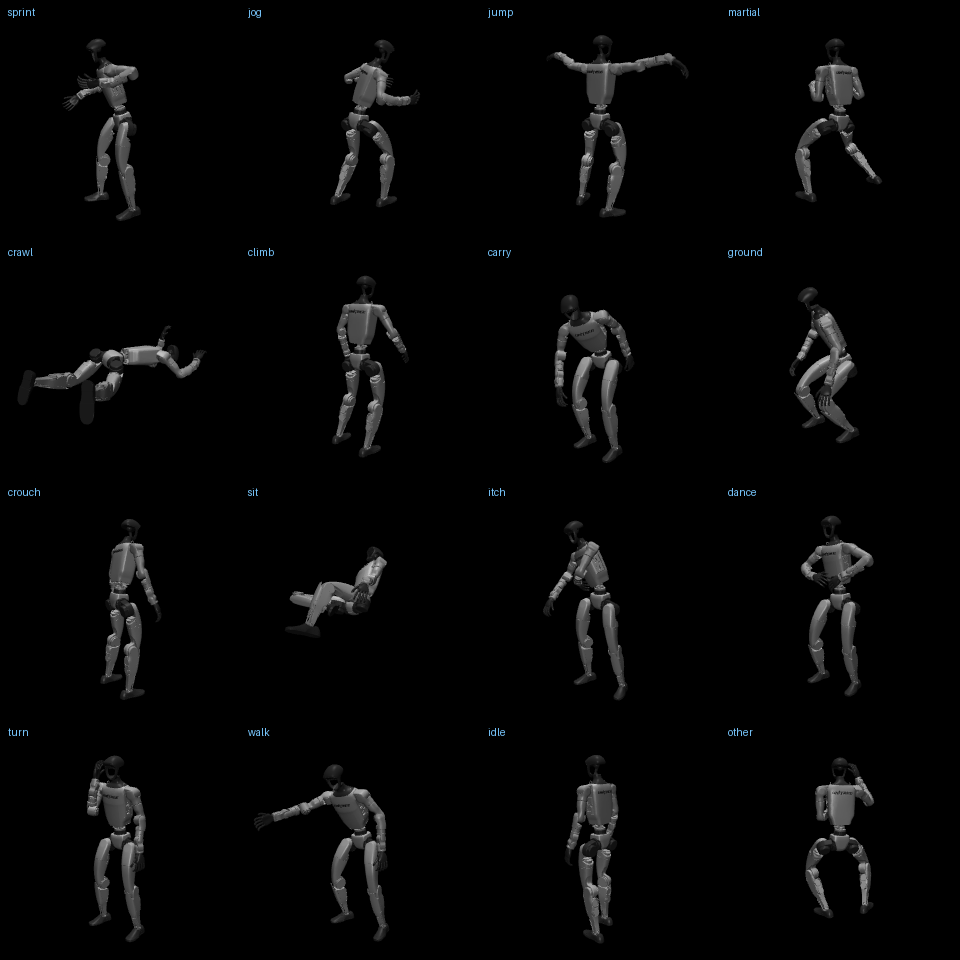
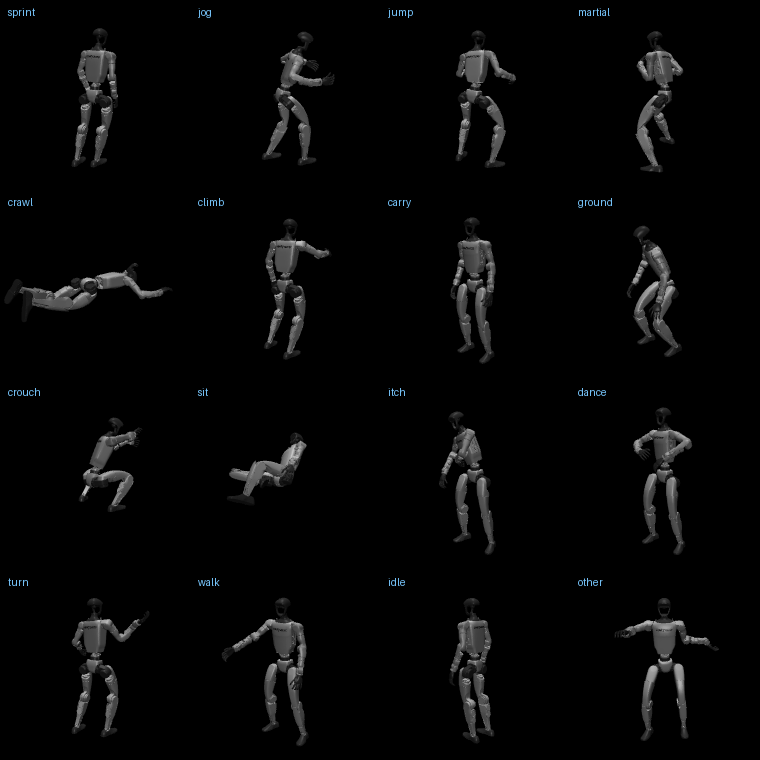
docs: longer header GIF (12 s per cell), with a stride and palette control
Three seconds was too short to read a motion. The grid now covers 12 s per clip: 600 simulated steps
sampled every 3rd step (so playback runs at 16.7 fps and stays real time), 4x4 cells at 190 px, 48-colour
palette -- 200 frames, 9.6 MB, versus 3.2 s and 8 MB before.

render_grid.py gained --stride (sample every Nth sim step, and derive the playback fps from it, so the
figure is never silently sped up or slowed down) and --colors (palette size), because a ten-second 4x4 GIF
is otherwise 16 MB at 96 colours.

diff --git a/scripts/render_grid.py b/scripts/render_grid.py
@@ -27,7 +27,9 @@ def main() -> None:
   ap.add_argument("--clips", type=int, default=16)
   ap.add_argument("--steps", type=int, default=150, help="150 steps = 3 s at 50 Hz")
   ap.add_argument("--cell", type=int, default=240)
-  ap.add_argument("--fps", type=int, default=25)
+  ap.add_argument("--colors", type=int, default=96, help="GIF palette size; fewer colours means a smaller file")
+  ap.add_argument("--fps", type=int, default=0, help="0 = derive from --stride so playback is real time")
+  ap.add_argument("--stride", type=int, default=2, help="render every Nth simulated step")
   ap.add_argument("--device", default="cuda:0")
   ap.add_argument("--seed", type=int, default=0)
   ap.add_argument("--clips-file", default="", help="one 'path\\tlabel' per line; overrides the random pick")
@@ -114,7 +116,7 @@ def main() -> None:
   nrows = int(np.ceil(n / ncols))
   tile = Image.new("RGB", (ncols * args.cell, nrows * args.cell), (18, 20, 24))
   frames = []
-  for t in range(0, args.steps, 2):
+  for t in range(0, args.steps, args.stride):
     for i in range(n):
       data.qpos[:] = traj[t, i]
       data.qpos[3:7] /= max(np.linalg.norm(traj[t, i, 3:7]), 1e-6)  # MuJoCo wants unit quats
@@ -133,11 +135,15 @@ def main() -> None:
       draw.text((x + 2, y + 2), names[i], fill=(120, 200, 255))
     frames.append(frame)
 
+  fps = args.fps or (50.0 / args.stride)
   out = Path(args.out)
   out.parent.mkdir(parents=True, exist_ok=True)
-  frames[0].save(out, save_all=True, append_images=frames[1:], duration=int(1000 / args.fps),
-                 loop=0, optimize=True)
-  print(f"[render] wrote {out} ({len(frames)} frames, {out.stat().st_size / 1e6:.1f} MB)", flush=True)
+  # GIF is palettised; fewer colours keeps a 10 s 4x4 grid inside a sane file size
+  pal = [f.convert("P", palette=Image.ADAPTIVE, colors=args.colors) for f in frames]
+  pal[0].save(out, save_all=True, append_images=pal[1:], duration=int(1000 / fps),
+              loop=0, optimize=True, disposal=1)
+  print(f"[render] wrote {out} ({len(pal)} frames, {len(pal) / fps:.1f}s, "
+        f"{out.stat().st_size / 1e6:.1f} MB)", flush=True)
   frames[len(frames) // 2].save(out.with_suffix(".png"))
 
 

diff --git a/README_zh.md b/README_zh.md
@@ -9,8 +9,7 @@ MuJoCo Warp 上的复现；并对"如何声明一个 SuperMimic 任务"做了重
 </p>
 
 <p align="center"><em>同一个策略，<b>16 种不同类型的动作</b>——冲刺、慢跑、跳跃、武术、爬行、爬梯、搬运、倒地起身、下蹲、坐姿、
-舞蹈、转身、行走等，每类挑选幅度最大的一条（<code>scripts/pick_grid_clips.py</code>）。渲染方式：把策略在仿真中的
-轨迹回放到 MuJoCo 里（<code>scripts/render_grid.py</code>）。</em></p>
+舞蹈、转身、行走等，每类挑选幅度最大的一条（<code>scripts/pick_grid_clips.py</code>）。每格为 12 秒仿真动作，渲染方式：把策略在仿真中的轨迹回放到 MuJoCo 里（<code>scripts/render_grid.py</code>）。</p>
 
 | 项目 | 结果 |
 |---|---|

diff --git a/README.md b/README.md
@@ -11,8 +11,8 @@ Model](https://arxiv.org/abs/2610.28480)** (CoRL 2026) on the Unitree G1 in
 
 <p align="center"><em>One policy, <b>16 different kinds of motion</b> -- sprint, jog, jump, martial arts, crawl, ladder climb, carrying,
 fall/get-up, crouch, sit, dance, turn, walk and more -- each chosen as the most dynamic clip of its category
-(<code>scripts/pick_grid_clips.py</code>). Rendered by replaying the policy's simulated trajectories in MuJoCo
-(<code>scripts/render_grid.py</code>).</em></p>
+(<code>scripts/pick_grid_clips.py</code>). Each cell is 12 s of simulated motion, rendered by replaying the policy's trajectories in MuJoCo
+(<code>scripts/render_grid.py</code>).</p>
 
 | | |
 |---|---|
